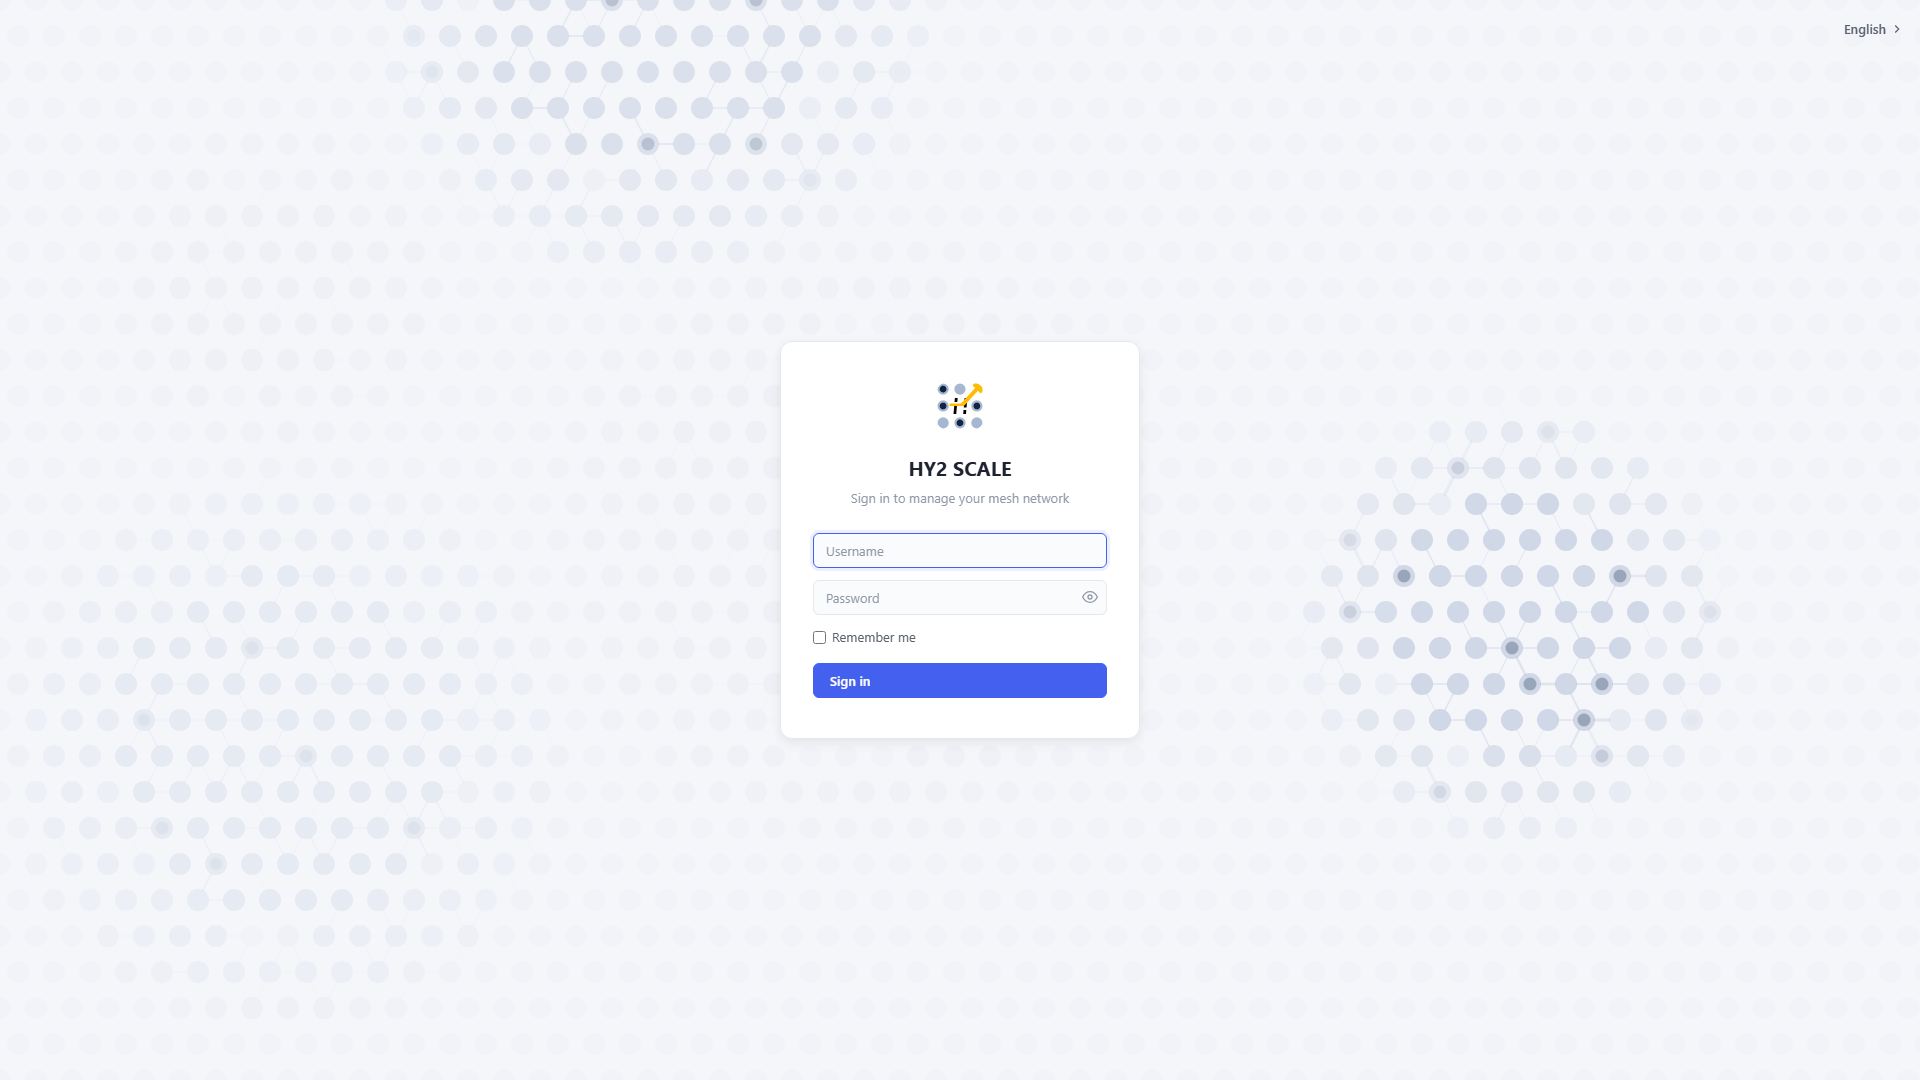
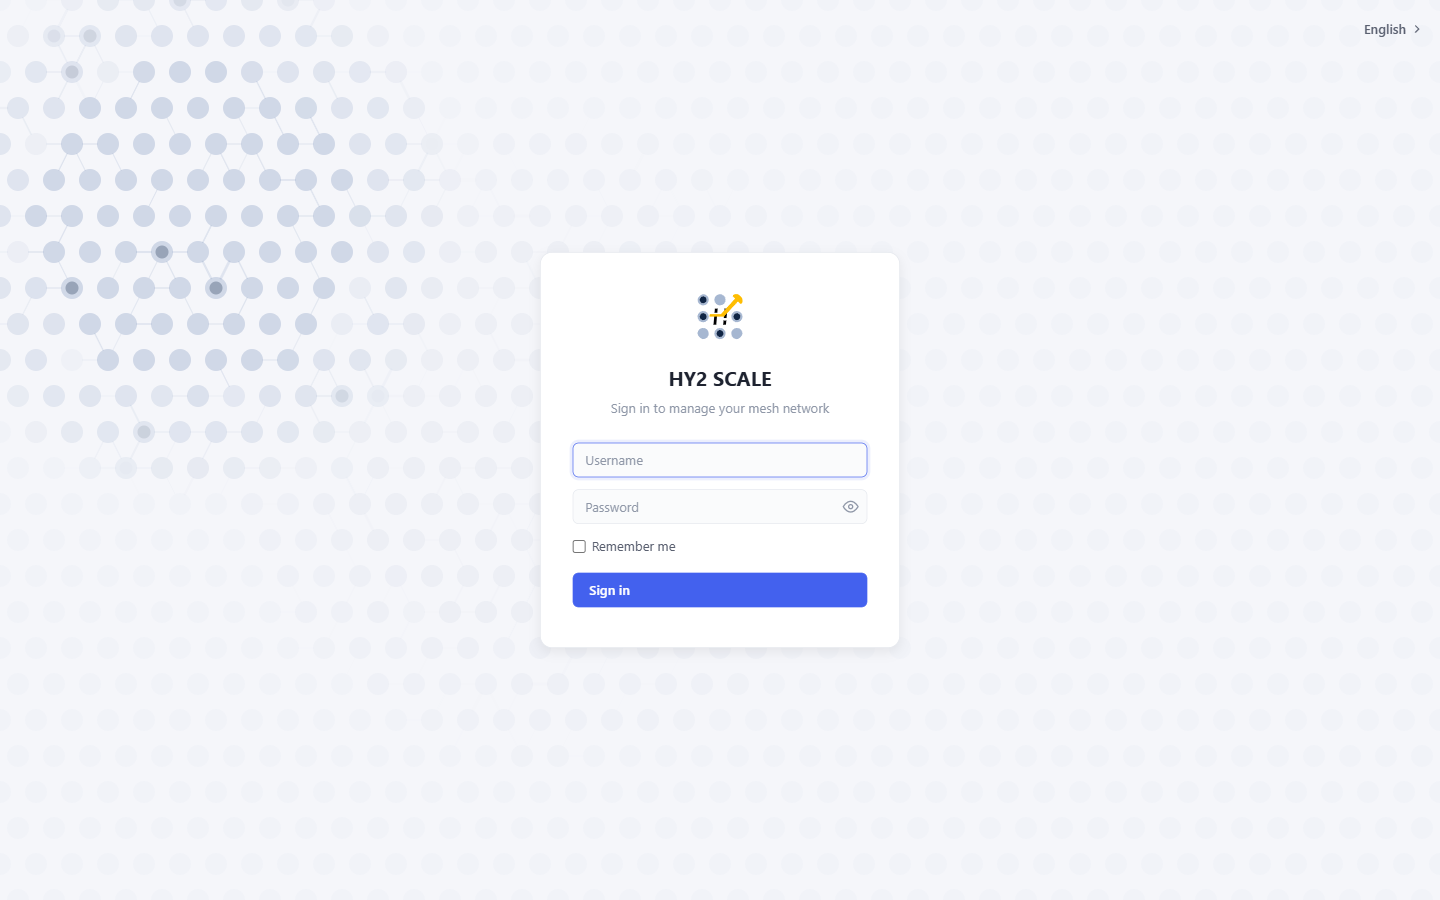
docs: tighten README and re-screenshot at 1440x900 with live traffic
- Rewrite README to a concise user-facing overview: shorter feature
  list without technical jargon, only two screenshots (graph + list),
  License section removed (covered in the wiki instead).
- Recapture every screenshot at 1440x900 while the demo cluster is
  exchanging real SOCKS5 traffic, so all four stat cards (total
  traffic, realtime speed, connections, exit clients) show live values
  and sparklines.
- Drop the now-unused nodes-graph-path.png.

diff --git a/README-ko.md b/README-ko.md
@@ -12,20 +12,17 @@
 <p align="center">
   <a href="https://hub.docker.com/r/frankoong/hy2scale"><img src="https://img.shields.io/docker/v/frankoong/hy2scale?sort=semver&label=Docker%20Hub" alt="Docker Hub"></a>
   <a href="https://github.com/FrankoonG/hy2scale/wiki"><img src="https://img.shields.io/badge/docs-Wiki-blue" alt="Wiki"></a>
-  <a href="LICENSE"><img src="https://img.shields.io/badge/license-GPL--3.0--or--later-blue" alt="License"></a>
   <br>
   <a href="README.md">English</a> | <a href="README-zh.md">中文</a> | <b>한국어</b>
 </p>
 
 ---
 
-## 문서
-
-**[Wiki](https://github.com/FrankoonG/hy2scale/wiki)** — 설치, 설정, 프로토콜별 가이드, API 레퍼런스.
+전체 설치, 설정, API 문서는 **[Wiki](https://github.com/FrankoonG/hy2scale/wiki)**를 참고하세요.
 
 ## 빠른 시작
 
-### 풀 모드 (호스트 네트워크 — 라우팅 규칙을 포함한 모든 기능)
+풀 모드 (호스트 네트워크 — 모든 기능 활성화):
 
 ```bash
 docker run -d --name hy2scale \
@@ -35,7 +32,7 @@ docker run -d --name hy2scale \
   frankoong/hy2scale:latest
 ```
 
-### 브리지 모드 (L2TP / IKEv2 / WireGuard, 라우팅 규칙 제외)
+브리지 모드 (VPN + 프록시, 라우팅 규칙 제외):
 
 ```bash
 docker run -d --name hy2scale \
@@ -47,61 +44,27 @@ docker run -d --name hy2scale \
   frankoong/hy2scale:latest
 ```
 
-### iKuai v4
+`http://<호스트>:5565/scale/` 접속 — 기본 로그인 `admin` / `admin`.
 
-[Releases](https://github.com/FrankoonG/hy2scale/releases)에서 `.ipkg` 파일을 다운로드한 뒤 **고급 앱 → 앱 마켓 → 로컬 설치**로 설치하세요. 자세한 내용은 [iKuai v4 가이드](https://github.com/FrankoonG/hy2scale/wiki/iKuai-v4-Installation)를 참고하세요.
-
----
-
-`http://<호스트>:5565/scale/` 접속 — 기본 로그인: `admin` / `admin`.
+iKuai v4 사용자는 [Releases](https://github.com/FrankoonG/hy2scale/releases)에서 `.ipkg`를 다운로드해 앱 스토어로 설치하세요 — 자세한 내용은 [iKuai v4 가이드](https://github.com/FrankoonG/hy2scale/wiki/iKuai-v4-Installation)를 참고하세요.
 
 ## 주요 기능
 
-- **메시 네트워크** — Hysteria 2 QUIC 터널 위의 분산형 P2P 토폴로지. 각 노드는 서버이자 클라이언트 역할을 동시에 수행합니다.
-- **중첩 검색** — 기존 터널을 통해 피어의 피어에 도달하며, 임의의 깊이까지 확장 가능합니다. iron-rule 기반 경로 필터링으로 순환 및 무단 출구를 방지합니다.
-- **그래프 토폴로지 뷰** — 팬 / 줌 / 핀치 줌이 가능한 인터랙티브 SVG 그래프. 모든 엣지에 실시간 지연 시간과 처리량이 표시되며, 레이아웃은 서버에 영속 저장되고 SSE를 통해 브라우저 세션 간에 동기화됩니다.
-- **출구 라우팅** — 사용자별 / 규칙별로 임의의 노드 또는 멀티홉 체인 (`jp`, `us/us-east/us-east-va` 등)을 통해 트래픽을 라우팅합니다.
-- **VPN 프로토콜** — Hysteria 2, SOCKS5, HTTP, Shadowsocks, L2TP/IPsec, IKEv2/IPsec, WireGuard. 모두 동일한 사용자 데이터베이스로 인증하며 사용자별 출구 라우팅을 따릅니다.
-- **라우팅 규칙** — iptables DNAT + 투명 프록시 (호스트 모드) 또는 TUN 모드 (브리지 / 라우터 펌웨어)를 통한 IP 및 도메인 기반 트래픽 라우팅.
-- **TLS & CA** — UI에서 인증서 생성, 가져오기, CA 서명이 가능합니다. 업로드한 CA로부터 IKEv2 서버 인증서를 자동 발급합니다.
-- **Bond 집계** — 다중 주소 피어 지원: 같은 원격지로 향하는 여러 링크의 대역폭을 집계하거나 페일오버(quality) 모드로 실행합니다.
-- **경량 Linux / 라우터 호환** — 경량화된 Linux 시스템 (iKuai v4 커스텀 커널, 스톡 OpenWrt 등)에서도 `--privileged` 없이 비호스트 Docker로 실행됩니다. 자동 호환 모드가 손상된 커널 경로를 xfrm-bridge와 TUN 캡처로 대체합니다.
-- **[iKuai v4 지원](https://github.com/FrankoonG/hy2scale/wiki/iKuai-v4-Installation)** — 호환 모드가 자동 활성화된 원클릭 `.ipkg` 설치.
-- **웹 UI** — English / 中文 / 한국어를 지원하는 React SPA. Dark Reader 확장 친화적이며 모바일 폭까지 반응형이고, 새 서버 빌드가 배포되면 자동으로 새로 고침됩니다.
-- **핫 리로드** — L2TP, IKEv2, WireGuard, Shadowsocks, SOCKS5, HTTP, 프록시 모두 컨테이너 재시작 없이 리로드됩니다.
-- **컨테이너 내 업그레이드** — 웹 UI에서 새 바이너리 타르볼을 업로드하여 현장 업그레이드할 수 있습니다. 컨테이너 재빌드가 필요 없습니다.
+- 노드를 메시로 연결하여 그중 어느 노드를 통해서든 트래픽을 라우팅합니다.
+- 인터랙티브 그래프 또는 테이블 뷰에서 실시간 토폴로지와 지연 시간을 확인합니다.
+- VPN / 프록시 서비스 실행: Hysteria 2, SOCKS5, HTTP, Shadowsocks, L2TP, IKEv2, WireGuard.
+- 사용자별 출구 라우팅, 트래픽 제한, 만료일, 일괄 관리.
+- IP 및 도메인 라우팅 규칙으로 특정 트래픽을 특정 출구로 보냅니다.
+- 내장 CA 서명을 지원하는 TLS 인증서 관리.
+- 다중 IP 피어 집계 (페일오버 또는 대역폭 결합).
+- 백업 / 복원, 컨테이너 내 바이너리 업그레이드, EN / 中文 / 한국어 UI.
 
 ## 스크린샷
 
-다단계 중첩이 적용된 네트워크 토폴로지 (싱가포르 기반 홈 노드가 8개국과 피어링 중이며, 일부 국가는 서브 피어를 노출합니다):
+싱가포르 홈 노드가 여러 지역의 원격 노드와 피어링하는 토폴로지 그래프와 리스트 뷰:
 
 ![노드 — 그래프 뷰](.github/assets/nodes-graph.png)
-
-목적지를 선택하면 전체 릴레이 경로 (`sg-home → us → us-east → us-east-va`, 누적 165 ms)와 홉별 작업이 표시됩니다:
-
-![노드 — 선택된 경로](.github/assets/nodes-graph-path.png)
-
-모든 VPN 프로토콜에서 자격 증명을 공유하며 사용자별 출구 라우팅이 적용되는 사용자 목록:
-
-![사용자](.github/assets/users.png)
-
-한 곳에 모인 7가지 프록시 프로토콜:
-
-![프록시 — WireGuard](.github/assets/proxies-wireguard.png)
-
-## 아키텍처
-
-```
-                               sg-home (self)
-     /    /      |      |      |      |      |      |      \      \
-    jp  us   kr  hk   tw   in   de   uk    au    br
-    |   / \    \                     |            |     |
-   jp-r1 us-east us-west           de-r1        au-r1   br-r1
-          |                                      |
-      us-east-va                              au-r1-a
-```
-
-모든 노드는 Hysteria 2 QUIC 서버와 릴레이 플레인을 실행합니다. 한 노드는 순수 릴레이, 순수 출구, 또는 두 역할을 동시에 수행할 수 있습니다. NAT 뒤의 장치도 부모 피어가 QUIC 터널을 유지하기 때문에 도달 가능합니다.
+![노드 — 리스트 뷰](.github/assets/nodes-table.png)
 
 ## 빌드
 
@@ -110,17 +73,6 @@ git clone https://github.com/FrankoonG/hy2scale.git
 cd hy2scale
 docker build -t hy2scale .
 ```
-
-프런트엔드만:
-
-```bash
-cd web/ui-framework && npm ci && npm run build
-cd ../app        && npm ci && npm run build
-```
-
-## 라이선스
-
-GPL-3.0-or-later — [LICENSE](LICENSE)를 참고하세요. Docker 이미지는 strongSwan (GPLv2+), iptables (GPLv2+), xl2tpd (GPLv2+)를 번들하고 있으므로 재배포 시 라이선스 전문과 소스 코드 제공 안내를 포함해야 합니다.
 
 ## Star History
 

diff --git a/README.md b/README.md
@@ -5,27 +5,24 @@
 <h1 align="center">HY2 SCALE</h1>
 
 <p align="center">
-  Hysteria 2 mesh relay network with web management UI.<br>
+  Hysteria 2 mesh relay network with a web management UI.<br>
   Route traffic through any node, run VPN services, manage everything from a browser.
 </p>
 
 <p align="center">
   <a href="https://hub.docker.com/r/frankoong/hy2scale"><img src="https://img.shields.io/docker/v/frankoong/hy2scale?sort=semver&label=Docker%20Hub" alt="Docker Hub"></a>
   <a href="https://github.com/FrankoonG/hy2scale/wiki"><img src="https://img.shields.io/badge/docs-Wiki-blue" alt="Wiki"></a>
-  <a href="LICENSE"><img src="https://img.shields.io/badge/license-GPL--3.0--or--later-blue" alt="License"></a>
   <br>
   <b>English</b> | <a href="README-zh.md">中文</a> | <a href="README-ko.md">한국어</a>
 </p>
 
 ---
 
-## Documentation
-
-**[Wiki](https://github.com/FrankoonG/hy2scale/wiki)** — Installation, configuration, per-protocol guides, API reference.
+See the **[Wiki](https://github.com/FrankoonG/hy2scale/wiki)** for full installation, configuration, and API documentation.
 
 ## Quick Start
 
-### Full mode (host network — all features including routing rules)
+Full mode (host network — everything enabled):
 
 ```bash
 docker run -d --name hy2scale \
@@ -35,7 +32,7 @@ docker run -d --name hy2scale \
   frankoong/hy2scale:latest
 ```
 
-### Bridge mode (L2TP / IKEv2 / WireGuard, no routing rules)
+Bridge mode (VPN + proxies, no routing rules):
 
 ```bash
 docker run -d --name hy2scale \
@@ -47,61 +44,27 @@ docker run -d --name hy2scale \
   frankoong/hy2scale:latest
 ```
 
-### iKuai v4
+Open `http://<host>:5565/scale/` — default login `admin` / `admin`.
 
-Download the `.ipkg` from [Releases](https://github.com/FrankoonG/hy2scale/releases) and install via **Advanced Apps → App Market → Local Install**. See the [iKuai v4 guide](https://github.com/FrankoonG/hy2scale/wiki/iKuai-v4-Installation) for details.
-
----
-
-Open `http://<host>:5565/scale/` — default login: `admin` / `admin`.
+For iKuai v4, download the `.ipkg` from [Releases](https://github.com/FrankoonG/hy2scale/releases) and install via the app store — see the [iKuai v4 guide](https://github.com/FrankoonG/hy2scale/wiki/iKuai-v4-Installation).
 
 ## Features
 
-- **Mesh Network** — decentralised peer-to-peer topology over Hysteria 2 QUIC tunnels; each node is both server and client.
-- **Nested Discovery** — reach a peer's peers through the existing tunnel, up to arbitrary depth; iron-rule-based path filtering prevents cycles and unauthorised exits.
-- **Graph Topology View** — pan / zoom / pinch-zoom interactive SVG graph with live latency and throughput on every edge; layout is server-persisted and synchronised across browser sessions over SSE.
-- **Exit Routing** — per-user / per-rule traffic steering through any node or explicit multi-hop chain (`jp`, `us/us-east/us-east-va`, etc.).
-- **VPN Protocols** — Hysteria 2, SOCKS5, HTTP, Shadowsocks, L2TP/IPsec, IKEv2/IPsec, WireGuard. All authenticate against the same user database and honour per-user exit routing.
-- **Routing Rules** — IP- and domain-based steering through exit nodes via iptables DNAT + transparent proxy (host mode) or TUN mode (bridge / router firmware).
-- **TLS & CA** — generate, import, or CA-sign certificates from the UI; auto-mint IKEv2 server certs from an uploaded CA.
-- **Bond Aggregation** — multi-address peers: aggregate bandwidth of several links to the same remote, or run in failover (quality) mode.
-- **Minimal Linux / Router Compatible** — runs on stripped-down Linux systems (iKuai v4 custom kernel, stock OpenWrt, etc.) in non-host Docker without `--privileged`; automatic compat mode swaps broken kernel paths for xfrm-bridge and TUN capture.
-- **[iKuai v4 Support](https://github.com/FrankoonG/hy2scale/wiki/iKuai-v4-Installation)** — one-click `.ipkg` install with compat mode auto-enabled.
-- **Web UI** — React SPA in English / 中文 / 한국어, dark-reader-extension friendly, responsive down to phone width, auto-reloads when a new server build is deployed.
-- **Hot Reload** — L2TP, IKEv2, WireGuard, Shadowsocks, SOCKS5, HTTP, proxies all reload without restarting the container.
-- **In-Container Upgrade** — upload a new binary tarball from the web UI to upgrade in place, no container rebuild required.
+- Connect nodes into a mesh and route traffic through any of them.
+- See live topology and latency in an interactive graph or a table view.
+- Run VPN / proxy services: Hysteria 2, SOCKS5, HTTP, Shadowsocks, L2TP, IKEv2, WireGuard.
+- Per-user exit routing, traffic limits, expiry, bulk management.
+- IP and domain routing rules steer specific traffic through specific exits.
+- TLS certificate management with built-in CA signing.
+- Multi-IP peer aggregation (failover or bandwidth bonding).
+- Backup / restore, in-place binary upgrade, UI in EN / 中文 / 한국어.
 
 ## Screenshots
 
-Network topology with multi-level nesting (Singapore-based home node peering with eight countries, some exposing sub-peers):
+Topology graph and list view, showing a Singapore home node peering with remote nodes across several regions:
 
-![Nodes — graph view](.github/assets/nodes-graph.png)
-
-Selecting a destination reveals the full relay path (`sg-home → us → us-east → us-east-va`, 165 ms accumulated) and exposes per-hop actions:
-
-![Nodes — selected path](.github/assets/nodes-graph-path.png)
-
-Users with per-user exit routing, shared credentials across every VPN protocol:
-
-![Users](.github/assets/users.png)
-
-Seven proxy protocols in one place:
-
-![Proxies — WireGuard](.github/assets/proxies-wireguard.png)
-
-## Architecture
-
-```
-                               sg-home (self)
-     /    /      |      |      |      |      |      |      \      \
-    jp  us   kr  hk   tw   in   de   uk    au    br
-    |   / \    \                     |            |     |
-   jp-r1 us-east us-west           de-r1        au-r1   br-r1
-          |                                      |
-      us-east-va                              au-r1-a
-```
-
-Every node runs a Hysteria 2 QUIC server and a relay plane. A node can act as a pure relay, a pure exit, or both. Devices behind NAT remain reachable because their parent peers hold the QUIC tunnel.
+![Nodes — graph](.github/assets/nodes-graph.png)
+![Nodes — list](.github/assets/nodes-table.png)
 
 ## Building
 
@@ -110,17 +73,6 @@ git clone https://github.com/FrankoonG/hy2scale.git
 cd hy2scale
 docker build -t hy2scale .
 ```
-
-Frontend only:
-
-```bash
-cd web/ui-framework && npm ci && npm run build
-cd ../app        && npm ci && npm run build
-```
-
-## License
-
-GPL-3.0-or-later — see [LICENSE](LICENSE). The Docker image bundles strongSwan (GPLv2+), iptables (GPLv2+) and xl2tpd (GPLv2+); redistribution must carry the licence text and a source-code offer.
 
 ## Star History
 

diff --git a/README-zh.md b/README-zh.md
@@ -12,20 +12,17 @@
 <p align="center">
   <a href="https://hub.docker.com/r/frankoong/hy2scale"><img src="https://img.shields.io/docker/v/frankoong/hy2scale?sort=semver&label=Docker%20Hub" alt="Docker Hub"></a>
   <a href="https://github.com/FrankoonG/hy2scale/wiki"><img src="https://img.shields.io/badge/docs-Wiki-blue" alt="Wiki"></a>
-  <a href="LICENSE"><img src="https://img.shields.io/badge/license-GPL--3.0--or--later-blue" alt="License"></a>
   <br>
   <a href="README.md">English</a> | <b>中文</b> | <a href="README-ko.md">한국어</a>
 </p>
 
 ---
 
-## 文档
-
-**[Wiki](https://github.com/FrankoonG/hy2scale/wiki)** — 安装、配置、各协议指南及 API 参考。
+完整安装、配置和 API 文档请参阅 **[Wiki](https://github.com/FrankoonG/hy2scale/wiki)**。
 
 ## 快速开始
 
-### Full 模式（Host 网络 — 包含路由规则在内的全部功能）
+Full 模式（Host 网络 — 全部功能启用）：
 
 ```bash
 docker run -d --name hy2scale \
@@ -35,7 +32,7 @@ docker run -d --name hy2scale \
   frankoong/hy2scale:latest
 ```
 
-### Bridge 模式（L2TP / IKEv2 / WireGuard，不含路由规则）
+Bridge 模式（VPN + 代理，不含路由规则）：
 
 ```bash
 docker run -d --name hy2scale \
@@ -47,61 +44,27 @@ docker run -d --name hy2scale \
   frankoong/hy2scale:latest
 ```
 
-### iKuai v4
+打开 `http://<主机>:5565/scale/` — 默认登录 `admin` / `admin`。
 
-从 [Releases](https://github.com/FrankoonG/hy2scale/releases) 下载 `.ipkg` 安装包，通过 **应用管理 → 应用商店 → 本地安装** 进行安装。详情请参阅 [iKuai v4 安装指南](https://github.com/FrankoonG/hy2scale/wiki/iKuai-v4-Installation)。
-
----
-
-打开 `http://<主机IP>:5565/scale/` — 默认登录：`admin` / `admin`。
+iKuai v4 用户请从 [Releases](https://github.com/FrankoonG/hy2scale/releases) 下载 `.ipkg` 并通过应用商店安装 — 详见 [iKuai v4 指南](https://github.com/FrankoonG/hy2scale/wiki/iKuai-v4-Installation)。
 
 ## 功能特性
 
-- **网状网络（Mesh）** — 基于 Hysteria 2 QUIC 隧道的去中心化对等拓扑；每个节点同时是服务端和客户端。
-- **嵌套发现** — 通过已有隧道访问对等节点的对等节点，支持任意深度；基于铁律（iron rules）的路径过滤机制防止环路和未授权出口。
-- **图形化拓扑视图** — 可平移、缩放、触控缩放的交互式 SVG 图；每条连线实时显示延迟和吞吐量；布局由服务端持久化，并通过 SSE 在所有浏览器会话间同步。
-- **出口路由** — 按用户 / 按规则将流量引导至任意节点或显式多跳链路（`jp`、`us/us-east/us-east-va` 等）。
-- **VPN 协议** — Hysteria 2、SOCKS5、HTTP、Shadowsocks、L2TP/IPsec、IKEv2/IPsec、WireGuard。所有协议共享同一用户数据库，并遵循按用户出口路由。
-- **路由规则** — 通过 iptables DNAT + 透明代理（Host 模式）或 TUN 模式（Bridge / 路由器固件）实现基于 IP 和域名的分流。
-- **TLS 与 CA** — 在 UI 中生成、导入或 CA 签发证书；从已上传 CA 自动签发 IKEv2 服务器证书。
-- **Bond 聚合** — 多地址对等节点：可聚合多个链路的带宽，也可运行在故障转移（quality）模式。
-- **精简 Linux / 路由器兼容** — 可在裁剪过的 Linux 系统（iKuai v4 定制内核、原版 OpenWrt 等）上以非 Host Docker 运行，无需 `--privileged`；自动兼容模式将失效的内核路径替换为 xfrm-bridge 与 TUN 捕获。
-- **[iKuai v4 支持](https://github.com/FrankoonG/hy2scale/wiki/iKuai-v4-Installation)** — 一键 `.ipkg` 安装，自动启用兼容模式。
-- **Web UI** — React 单页应用，支持 English / 中文 / 한국어；兼容 Dark Reader 扩展；响应式设计下探至手机宽度；服务端部署新版本时自动重载。
-- **热重载** — L2TP、IKEv2、WireGuard、Shadowsocks、SOCKS5、HTTP、代理均无需重启容器即可热重载。
-- **容器内升级** — 从 Web UI 上传新的二进制压缩包即可原地升级，无需重建容器。
+- 将节点连接成网状网络，通过其中任意一个节点转发流量。
+- 在交互式图形视图或表格视图中查看实时拓扑和延迟。
+- 运行 VPN / 代理服务：Hysteria 2、SOCKS5、HTTP、Shadowsocks、L2TP、IKEv2、WireGuard。
+- 按用户出口路由、流量限额、到期时间和批量管理。
+- IP 与域名路由规则将特定流量引向特定出口。
+- TLS 证书管理，内置 CA 签发。
+- 多 IP 对等节点聚合（故障转移或带宽叠加）。
+- 备份 / 恢复、容器内二进制升级，UI 支持 EN / 中文 / 한국어。
 
 ## 截图
 
-多层级嵌套的网络拓扑（新加坡本地节点与八个国家的节点建立对等关系，部分节点公开了子对等节点）：
+拓扑图与列表视图，展示新加坡本地节点与多地远程节点的对等关系：
 
 ![节点 — 图形视图](.github/assets/nodes-graph.png)
-
-选中目标节点后显示完整中继路径（`sg-home → us → us-east → us-east-va`，累计 165 ms）并提供逐跳操作：
-
-![节点 — 选中路径](.github/assets/nodes-graph-path.png)
-
-支持按用户出口路由的用户，所有 VPN 协议共享同一套凭据：
-
-![用户](.github/assets/users.png)
-
-七种代理协议集中管理：
-
-![代理 — WireGuard](.github/assets/proxies-wireguard.png)
-
-## 架构
-
-```
-                               sg-home (self)
-     /    /      |      |      |      |      |      |      \      \
-    jp  us   kr  hk   tw   in   de   uk    au    br
-    |   / \    \                     |            |     |
-   jp-r1 us-east us-west           de-r1        au-r1   br-r1
-          |                                      |
-      us-east-va                              au-r1-a
-```
-
-每个节点运行一个 Hysteria 2 QUIC 服务器和中继平面。节点可以作为纯中继、纯出口或同时兼任。NAT 后的设备仍可被访问，因为其上游对等节点持有 QUIC 隧道。
+![节点 — 列表视图](.github/assets/nodes-table.png)
 
 ## 构建
 
@@ -110,17 +73,6 @@ git clone https://github.com/FrankoonG/hy2scale.git
 cd hy2scale
 docker build -t hy2scale .
 ```
-
-仅构建前端：
-
-```bash
-cd web/ui-framework && npm ci && npm run build
-cd ../app        && npm ci && npm run build
-```
-
-## 许可证
-
-GPL-3.0-or-later — 详见 [LICENSE](LICENSE)。Docker 镜像捆绑了 strongSwan（GPLv2+）、iptables（GPLv2+）和 xl2tpd（GPLv2+）；再分发时必须附带许可证文本和源代码获取方式。
 
 ## Star 历史
 
